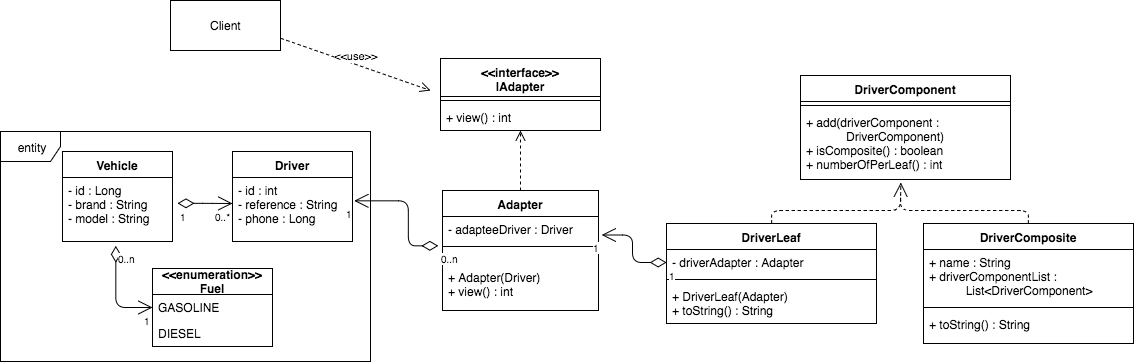
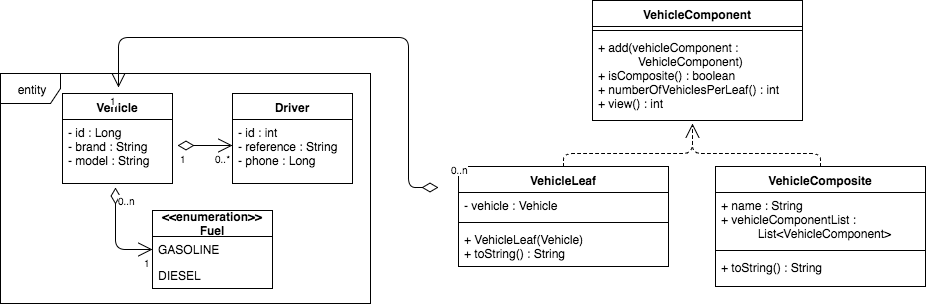
Updated README and image

diff --git a/README.md b/README.md
@@ -12,24 +12,13 @@ Cada apartado del enunciado se ha dividido por carpetas y no se han mezclado las
 
 Para los tests se ha seguido la misma estructura.
 
-## Patrón de Diseño Factory con Singleton
-
-Se ha realizado este apartado tomando ideas del patrón _Flyweight_, en el cual se tiene un valor intrinseco
-(permanente) que se puede compartir y un valor extrinseco (cambiante) que se puede transmitir. TODO
-
-Fuentes: 
-* [http://www.avajava.com/tutorials/lessons/flyweight-pattern.html?page=2](http://www.avajava.com/tutorials/lessons/flyweight-pattern.html?page=2)
-* [http://coding-geek.com/design-pattern-factory-patterns/](http://coding-geek.com/design-pattern-factory-patterns/)
-* [https://goo.gl/eccc5c](https://goo.gl/eccc5c)
-* [http://www.oodesign.com/flyweight-pattern-wargame-example-java-sourcecode.html](http://www.oodesign.com/flyweight-pattern-wargame-example-java-sourcecode.html)
-
 ## Patrón de Diseño Builder
 
-Se ha aplicado el patrón para ambas entidades `Driver` y `Vehicle`. 
+Se ha aplicado el patrón para ambas entidades `Vehicle` y `Driver`. 
 
 ## Patrón de Diseño Composite
 
-Se ha aplicado el patrón sobre la entidad `Driver` de forma que se tenga agrupaciones del mismo. No obstante se ha
+Se ha aplicado el patrón sobre la entidad `Vehicle` de forma que se tenga agrupaciones del mismo. No obstante se ha
 trabajado con ella sin modificar su interfaz pública o la de cualquiera de las entidades dadas en la retroalimentación. 
 
 A continuación se muestra el diagrama UML:
